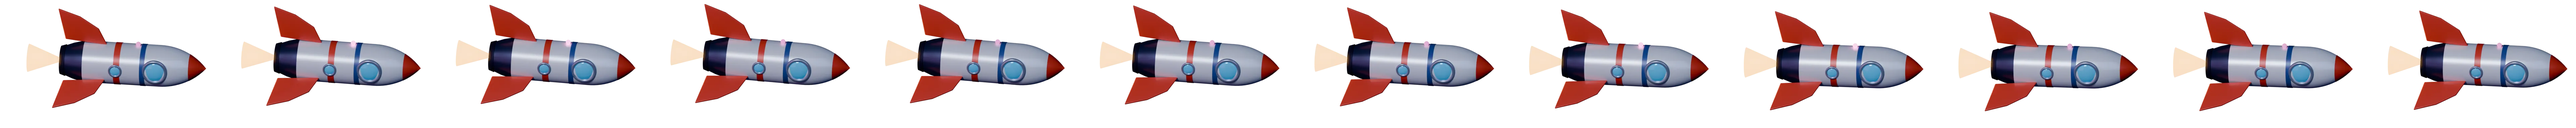
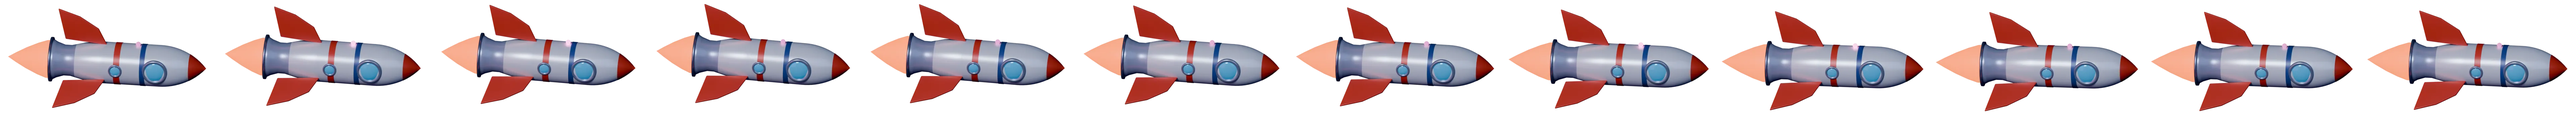
Raketa: pevná zvonová tryska navazuje na záď, plamen začíná přesně na ústí (bez mezery a díry)
Claude-Session: https://claude.ai/code/session_01Yb1tNgRBRrsTCuvmb2jaPs

diff --git a/src/lib/market-cinema.ts b/src/lib/market-cinema.ts
@@ -286,7 +286,7 @@ export function runSpace(r: Refs, g: Geo, onEnd: () => void): Handle {
     const fw = (g.rocketW ?? 0.15) * cw;
     const fh = fw * 0.6;
     const pivot = { x: ru * cw + 0.106 * fw, y: rv * ch - 0.12 * fh };
-    const half = 0.356 * fw;
+    const half = 0.372 * fw;
     const groundY = pivot.y + 0.1 * fh;
     const [su, sv] = g.toBox(g.start);
     const hs = { x: su * cw, y: sv * ch };
@@ -490,7 +490,7 @@ export function runSpace(r: Refs, g: Geo, onEnd: () => void): Handle {
         const sy = ty + zoom * (tail.y + 0.015 * fh);
         const flick = 0.85 + Math.random() * 0.3;
         const L = flameLen * flick * zoom;
-        const Wd = (0.075 + 0.05 * thrust) * fw * zoom;
+        const Wd = (0.088 + 0.05 * thrust) * fw * zoom;
         ctx.globalCompositeOperation = "lighter";
         const glow = ctx.createRadialGradient(sx, sy + L * 0.25, 0, sx, sy + L * 0.25, L * 1.1 + 0.5 * fw);
         glow.addColorStop(0, `rgba(255,170,70,${0.55 * thrust * flick})`);

diff --git a/umime-art/blender/kosmicka_raketa.py b/umime-art/blender/kosmicka_raketa.py
@@ -64,17 +64,25 @@ LN = XT - XB
 rho = (R * R + LN * LN) / (2 * R)
 nose = [(XB + LN * k / 14, math.sqrt(max(0.0, rho * rho - (LN * k / 14) ** 2)) + R - rho) for k in range(15)]
 nose[-1] = (XT, 0.0)
-tail = [(XN - 0.1, 0.34), (XN, 0.36), (XN + 0.18, 0.43), (XN + 0.45, 0.5)]
 body_mat, nose_mat = M("trup", "#f4f6fb", 0.28, 0.25), M("nos", "#e03a2c", 0.3, 0.15)
-lathe([(x, R) for x in (-1.1, -0.6, 0.0, 0.5)] + nose[:1], "trup", body_mat)
+metal_mat = M("tryska", "#a3adc8", 0.3, 0.35)
+dark_mat = M("tryska_tm", "#232942", 0.4, 0.6)
+# trup: válec, na zádi se zužuje do sukně; špička vpředu je ogiva
+lathe([(-1.30, 0.40), (-1.10, 0.45), (-0.70, R)] + [(x, R) for x in (-0.6, 0.0, 0.5)] + nose[:1], "trup", body_mat)
 lathe(nose, "nos", body_mat)
-# červená špička (horních 38 %) a pásy: každý je tenká obálka kolem trupu
 cap = [(x, r * 1.012) for x, r in nose if x > XT - 0.42] + [(XT, 0.0)]
 lathe(cap, "spicka", nose_mat)
 for x0, x1, col in ((-0.35, -0.2, "#e03a2c"), (0.28, 0.4, "#2f4a8a")):
     lathe([(x0, R * 1.012), (x1, R * 1.012)], "pas", M("pas" + col, col, 0.35, 0.1))
-lathe([(XN - 0.1, 0.34), (XN, 0.36), (XN + 0.18, 0.43), (XN + 0.45, 0.5)], "tryskovy", M("tryska", "#434b6a", 0.3, 0.8))
-lathe([(XN - 0.12, 0.30), (XN - 0.12, 0.34), (XN, 0.38)], "ret", M("ret", "#2a2f48", 0.4, 0.7))
+# tryska: zvonovitý nástavec navazuje přímo na záď (žádná mezera), uvnitř zavřený tmavý disk se žhavým středem
+NZ0, NZ1 = -1.30, -1.92
+nozzle_out = [(NZ0, 0.40), (-1.42, 0.37), (-1.58, 0.37), (-1.76, 0.43), (NZ1, 0.52)]
+nozzle_in = [(NZ1, 0.47), (-1.76, 0.38), (-1.58, 0.32), (-1.45, 0.30)]
+lathe(nozzle_out + nozzle_in, "tryska", metal_mat)
+lathe([(-1.45, 0.30), (-1.45, 0.0)], "tryska_dno", dark_mat)
+lathe([(-1.5, 0.22), (-1.5, 0.0)], "tryska_zar", glow("zar_tryska", "#ff9a3c", 6.0))
+# prstenec na ústí trysky
+lathe([(NZ1, 0.47), (NZ1, 0.535), (NZ1 + 0.05, 0.535), (NZ1 + 0.05, 0.47)], "tryska_okraj", M("okraj", "#b9c2d8", 0.25, 0.9))
 part(sphere((0.65, -0.43, 0.06), 0.26, M("okno_r", "#46d6ff", 0.06, 0.1), scale=(1, 0.42, 1), seg=24, rings=14))
 part(torus((0.65, -0.465, 0.06), 0.27, 0.045, M("okno_k", "#aab4cc", 0.25, 0.7), rot=(math.pi / 2, 0, 0)))
 part(sphere((-0.3, -0.48, 0.04), 0.13, M("okno_m", "#46d6ff", 0.06, 0.1), scale=(1, 0.4, 1), seg=20, rings=12))
@@ -108,8 +116,14 @@ def fin(angle):
 
 for k in range(3):
     fin(math.radians(90 + 120 * k - 90))
-flame = part(cone((XN - 0.45, 0, 0), 0.34, 0.0, 0.9, glow("plamen", "#ffb347", 8.0), verts=24, rot=(0, math.radians(90), 0)))
-core = part(cone((XN - 0.3, 0, 0), 0.18, 0.0, 0.55, glow("plamenJ", "#fff1a8", 12.0), verts=16, rot=(0, math.radians(90), 0)))
+# plamen: dvě vnořené kapky, začínají přesně na ústí trysky
+def flame_profile(length, r0):
+    return [(-length * k, r0 * w) for k, w in ((0.0, 1.0), (0.12, 0.98), (0.32, 0.82), (0.58, 0.55), (0.82, 0.25), (1.0, 0.0))]
+
+
+flame = part(lathe(flame_profile(1.05, 0.46), "plamen", glow("plamen", "#ff6a14", 3.6)))
+core = part(lathe(flame_profile(0.7, 0.30), "plamenJ", glow("plamenJ", "#ffc83a", 6.5)))
+flame.location = core.location = (NZ1 + 0.03, 0, 0)
 beacon = part(sphere((0.2, 0, 0.55), 0.06, glow("maják", "#ff6fd0", 8.0), seg=10, rings=8))
 root.rotation_euler = (0, 0, math.radians(-8))
 
